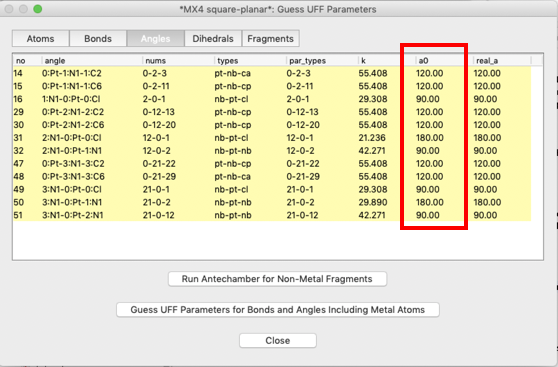
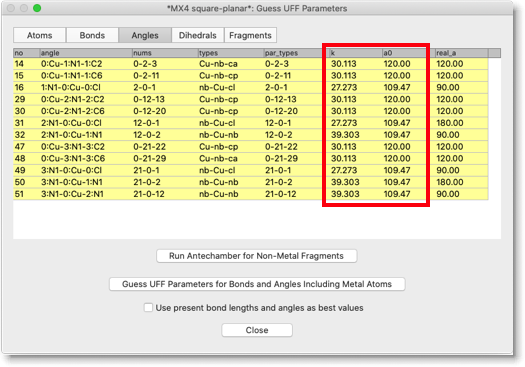
MM/MD section of the document is updated

diff --git a/docs/MolbyDoc/en/coordination.html b/docs/MolbyDoc/en/coordination.html
@@ -76,7 +76,47 @@ You can check the "Angles" page as well. Check the columns "k" and "a0", for the
 Close this dialog, and go into MM/MD calculations as usual. For example, you can perform energy minimization and get the structure like below.
 </p>
 <p><img src='../etc/coord_27.png' /></p>
-<h2>2. Compounds Containing Metal-π Bonds</h2>
+<h2>2. Performing MM/MD with X-ray structures as the starting point</h2>
+<p>
+In the research area of coordination and organometallic chemistry, it is often desirable that the structure of the first coordination sphere is given by the X-ray structure of a known compound, and the structure of rest of the molecule is predicted by MM/MD. In such cases, we can read the structure from a CIF file, and determine the MM parameters so that they reasonably produce the 'real' structure by MM optimization. After that, we can modify the organic part, and perform the MM optimization for the new molecule.
+</p>
+<p>
+Here is an example. We use the X-ray structure from the author's own publication: CCDC 1292052.
+</p>
+<p><img src='../etc/coord_28.png' /></p>
+<p>
+This CIF, obtained from CCDC, contains only the cell parameters and fractional coordinates, but these are sufficient for our present purpose. We remove the solvent and counter anions (select one atom in the complex cation; do "Select Fragment"; do "Select Reverse"; and delete the selected atoms).
+</p>
+<p><img src='../etc/coord_29.png' /></p>
+<p>
+The structure has no hydrogen atoms, so we add the hydrogen atoms by "Add Hydrogen" repeatedly until all carbon atoms have appropriate number of hydrogen atoms. (Note that the C=N connected to the benzene ring is double-bonded, i.e. the carbon atom is sp<sup>2</sup> trigonal.)
+</p>
+<p><img src='../etc/coord_30.png' /></p>
+<p>
+This is a dinuclear Mn complex, and when we carefully examine the structure, we find there is a Mn-Mn bond. This is a spurious bond, which is generated by Molby because the metal-metal distance is small. We need to remove these spurious bonds by our hands (Select "Erase" and click on the bond).
+</p>
+<p><img src='../etc/coord_31.png' /></p>
+<p>
+Open "Guess UFF Parameters" dialog.
+</p>
+<p><img src='../etc/coord_32.png' /></p>
+<p>
+Press "Run Antechamber for Non-Metal Fragments".
+</p>
+<p><img src='../etc/coord_33.png' /></p>
+<p>
+Select UFF type for atoms that show "-- select --" in the uff_type column. In this compound, UFF types of acetate oxygen atoms are left undefined after running Antechamber. We assume "O tetrahedral" here.
+</p>
+<p><img src='../etc/coord_34.png' /></p>
+<p>
+Next, we determine MM parameters including metals. In this case, check the box "Use present bond lengths and angles as best values". With this setting, the present bond lengths and angles are considered the equilibrated values, and only the UFF forces will be used as the MM parameters.
+</p>
+<p><img src='../etc/coord_35.png' /></p>
+<p>
+Now we can perform the MM/MD calculation. For example, energy minimization results in the slightly changed structure. Although we cannot "predict" the X-ray structure, we can get "reasonable candidate" of the structure, which is quite useful for designing the molecules.
+</p>
+<p><img src='../etc/coord_36.png' /></p>
+<h2>3. Compounds Containing Metal-π Bonds</h2>
 <p>
 Compounds containing metal-π bonds are also problematic in molecular mechanics calculations. The implementation of metal-π bonds in Molby is based on the proposal by Doman and coworkers (<i>J. Am. Chem. Soc.</i> <b>114,</b> 7262-7272 (1992)). Herein we will see how to build a molecular model of ferrocene.
 </p>
